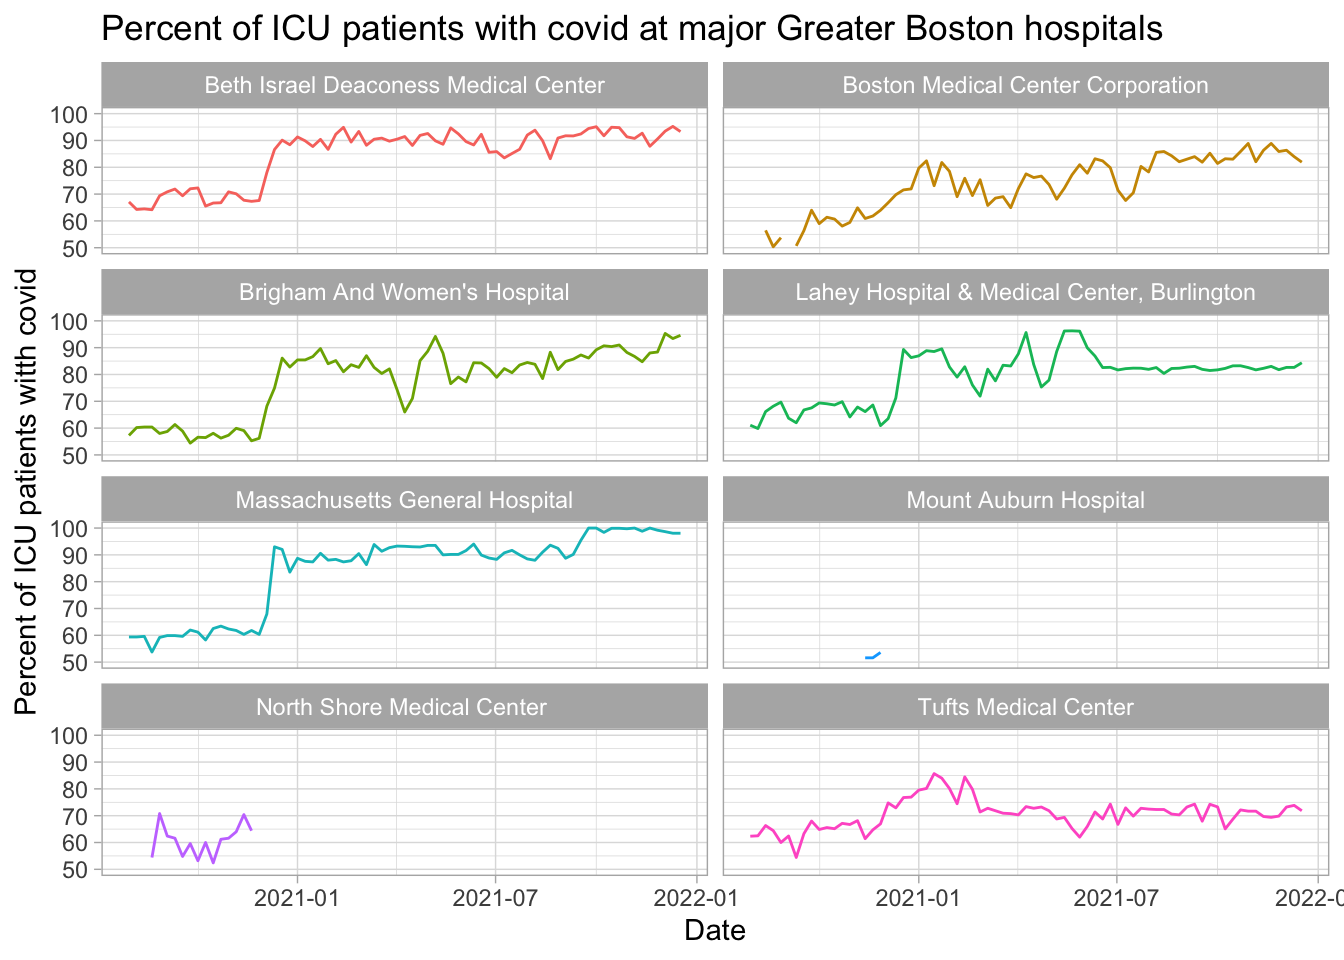
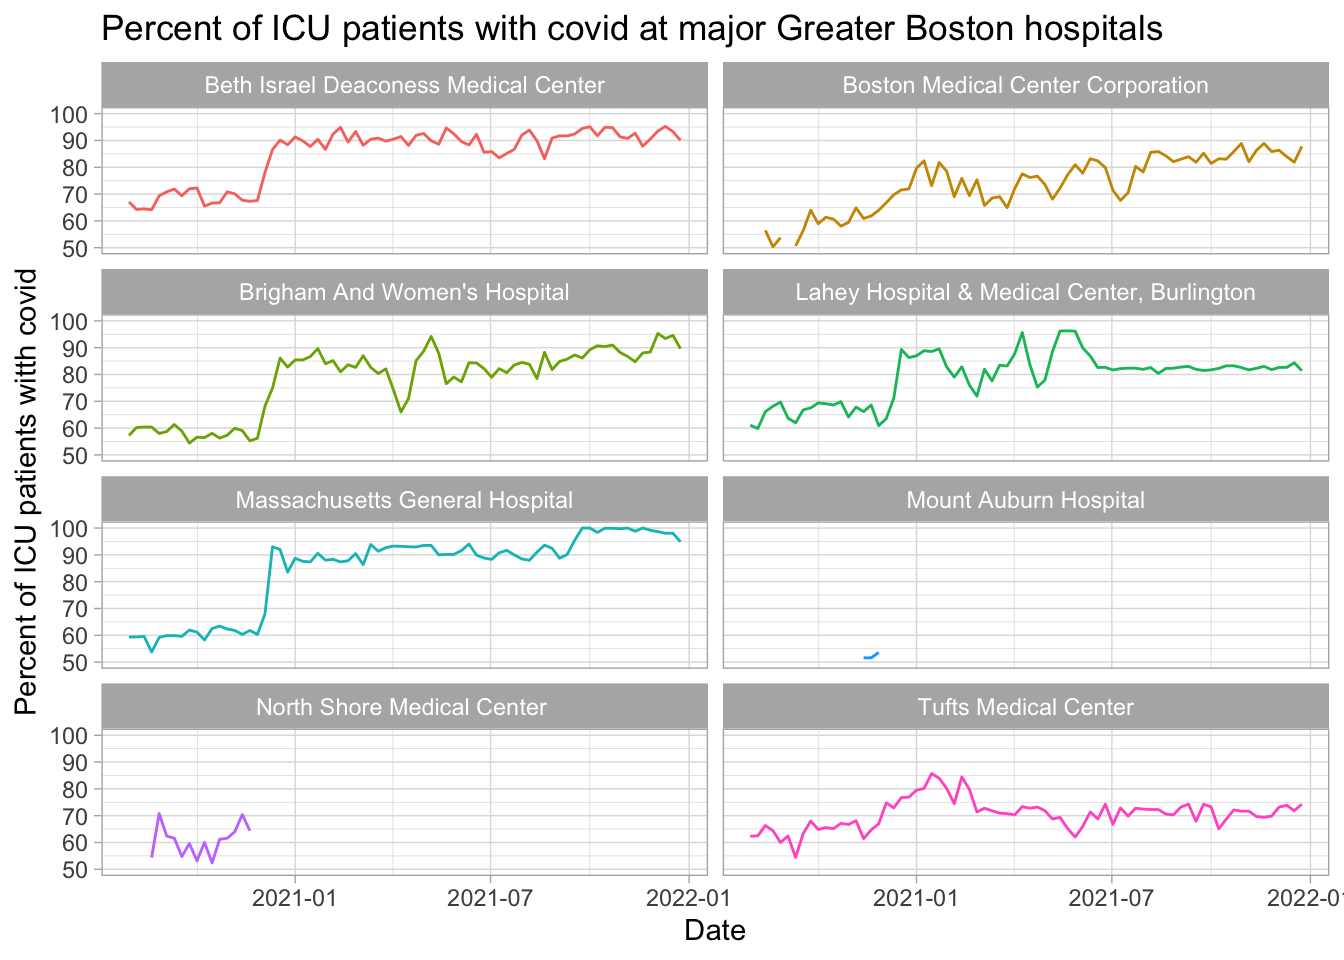
updated data

diff --git a/docs/index.html b/docs/index.html
@@ -290,7 +290,7 @@ $(document).ready(function () {
 <p><img src="index_files/figure-html/unnamed-chunk-3-1.png" width="672" /></p>
 <div id="hospital-data" class="section level3">
 <h3>Hospital data</h3>
-<p>The US Department of Health and Human Services gives data on hospital usage. Here are data of ICU bed availability for hospitals in this area with at least 25 staffed ICU beds, using data from the week starting 2021-12-17.</p>
+<p>The US Department of Health and Human Services gives data on hospital usage. Here are data of ICU bed availability for hospitals in this area with at least 25 staffed ICU beds, using data from the week starting 2021-12-24.</p>
 <table>
 <thead>
 <tr class="header">
@@ -303,51 +303,45 @@ $(document).ready(function () {
 <tbody>
 <tr class="odd">
 <td align="left">Beth Israel Deaconess Medical Center</td>
-<td align="right">16</td>
-<td align="right">137</td>
-<td align="right">89</td>
-</tr>
-<tr class="even">
-<td align="left">Boston Children’s Hospital</td>
-<td align="right">6</td>
-<td align="right">107</td>
-<td align="right">94</td>
-</tr>
-<tr class="odd">
-<td align="left">Boston Medical Center Corporation</td>
-<td align="right">14</td>
-<td align="right">98</td>
+<td align="right">21</td>
+<td align="right">138</td>
 <td align="right">85</td>
 </tr>
 <tr class="even">
-<td align="left">Brigham And Women’s Hospital</td>
-<td align="right">5</td>
-<td align="right">158</td>
-<td align="right">97</td>
+<td align="left">Boston Children’s Hospital</td>
+<td align="right">14</td>
+<td align="right">107</td>
+<td align="right">87</td>
 </tr>
 <tr class="odd">
-<td align="left">Lahey Hospital &amp; Medical Center, Burlington</td>
-<td align="right">9</td>
-<td align="right">55</td>
+<td align="left">Boston Medical Center Corporation</td>
+<td align="right">16</td>
+<td align="right">98</td>
 <td align="right">84</td>
 </tr>
 <tr class="even">
-<td align="left">Massachusetts General Hospital</td>
-<td align="right">2</td>
-<td align="right">151</td>
-<td align="right">98</td>
+<td align="left">Brigham And Women’s Hospital</td>
+<td align="right">10</td>
+<td align="right">150</td>
+<td align="right">93</td>
 </tr>
 <tr class="odd">
-<td align="left">Mount Auburn Hospital</td>
-<td align="right">9</td>
-<td align="right">25</td>
-<td align="right">64</td>
+<td align="left">Lahey Hospital &amp; Medical Center, Burlington</td>
+<td align="right">10</td>
+<td align="right">54</td>
+<td align="right">81</td>
 </tr>
 <tr class="even">
+<td align="left">Massachusetts General Hospital</td>
+<td align="right">8</td>
+<td align="right">147</td>
+<td align="right">95</td>
+</tr>
+<tr class="odd">
 <td align="left">Tufts Medical Center</td>
-<td align="right">40</td>
+<td align="right">42</td>
 <td align="right">119</td>
-<td align="right">67</td>
+<td align="right">65</td>
 </tr>
 </tbody>
 </table>
@@ -359,7 +353,7 @@ $(document).ready(function () {
 <p><img src="index_files/figure-html/unnamed-chunk-7-1.png" width="672" /></p>
 <p>We can also see what percentage of people who have been hospitalized for covid had been fully vaccinated first. Vaccination is <em>very, very</em> effective at reducing severe illness and is strongly recommended by health agencies, but just as airbags and seatbelts reduce but do not completely eliminate car deaths, there is a small risk of a breakthrough infection that can lead to hospitalization.</p>
 <p><img src="index_files/figure-html/unnamed-chunk-8-1.png" width="672" /></p>
-<p>Plotting percentage of ICU patients with covid over time (up to the week starting 2021-12-17). Some hospitals have much more frequently updated data than others; some is fairly gappy. This just plots the hospitals that average at least 25 staffed <em>adult</em> ICU beds per week.</p>
+<p>Plotting percentage of ICU patients with covid over time (up to the week starting 2021-12-24). Some hospitals have much more frequently updated data than others; some is fairly gappy. This just plots the hospitals that average at least 25 staffed <em>adult</em> ICU beds per week.</p>
 <p><img src="index_files/figure-html/unnamed-chunk-9-1.png" width="672" /></p>
 </div>
 

diff --git a/docs/individualhospitals.html b/docs/individualhospitals.html
@@ -294,51 +294,45 @@ $(document).ready(function () {
 <tbody>
 <tr class="odd">
 <td align="left">Beth Israel Deaconess Medical Center</td>
-<td align="right">16</td>
-<td align="right">137</td>
-<td align="right">89</td>
-</tr>
-<tr class="even">
-<td align="left">Boston Children’s Hospital</td>
-<td align="right">6</td>
-<td align="right">107</td>
-<td align="right">94</td>
-</tr>
-<tr class="odd">
-<td align="left">Boston Medical Center Corporation</td>
-<td align="right">14</td>
-<td align="right">98</td>
+<td align="right">21</td>
+<td align="right">138</td>
 <td align="right">85</td>
 </tr>
 <tr class="even">
-<td align="left">Brigham And Women’s Hospital</td>
-<td align="right">5</td>
-<td align="right">158</td>
-<td align="right">97</td>
+<td align="left">Boston Children’s Hospital</td>
+<td align="right">14</td>
+<td align="right">107</td>
+<td align="right">87</td>
 </tr>
 <tr class="odd">
-<td align="left">Lahey Hospital &amp; Medical Center, Burlington</td>
-<td align="right">9</td>
-<td align="right">55</td>
+<td align="left">Boston Medical Center Corporation</td>
+<td align="right">16</td>
+<td align="right">98</td>
 <td align="right">84</td>
 </tr>
 <tr class="even">
-<td align="left">Massachusetts General Hospital</td>
-<td align="right">2</td>
-<td align="right">151</td>
-<td align="right">98</td>
+<td align="left">Brigham And Women’s Hospital</td>
+<td align="right">10</td>
+<td align="right">150</td>
+<td align="right">93</td>
 </tr>
 <tr class="odd">
-<td align="left">Mount Auburn Hospital</td>
-<td align="right">9</td>
-<td align="right">25</td>
-<td align="right">64</td>
+<td align="left">Lahey Hospital &amp; Medical Center, Burlington</td>
+<td align="right">10</td>
+<td align="right">54</td>
+<td align="right">81</td>
 </tr>
 <tr class="even">
+<td align="left">Massachusetts General Hospital</td>
+<td align="right">8</td>
+<td align="right">147</td>
+<td align="right">95</td>
+</tr>
+<tr class="odd">
 <td align="left">Tufts Medical Center</td>
-<td align="right">40</td>
+<td align="right">42</td>
 <td align="right">119</td>
-<td align="right">67</td>
+<td align="right">65</td>
 </tr>
 </tbody>
 </table>
